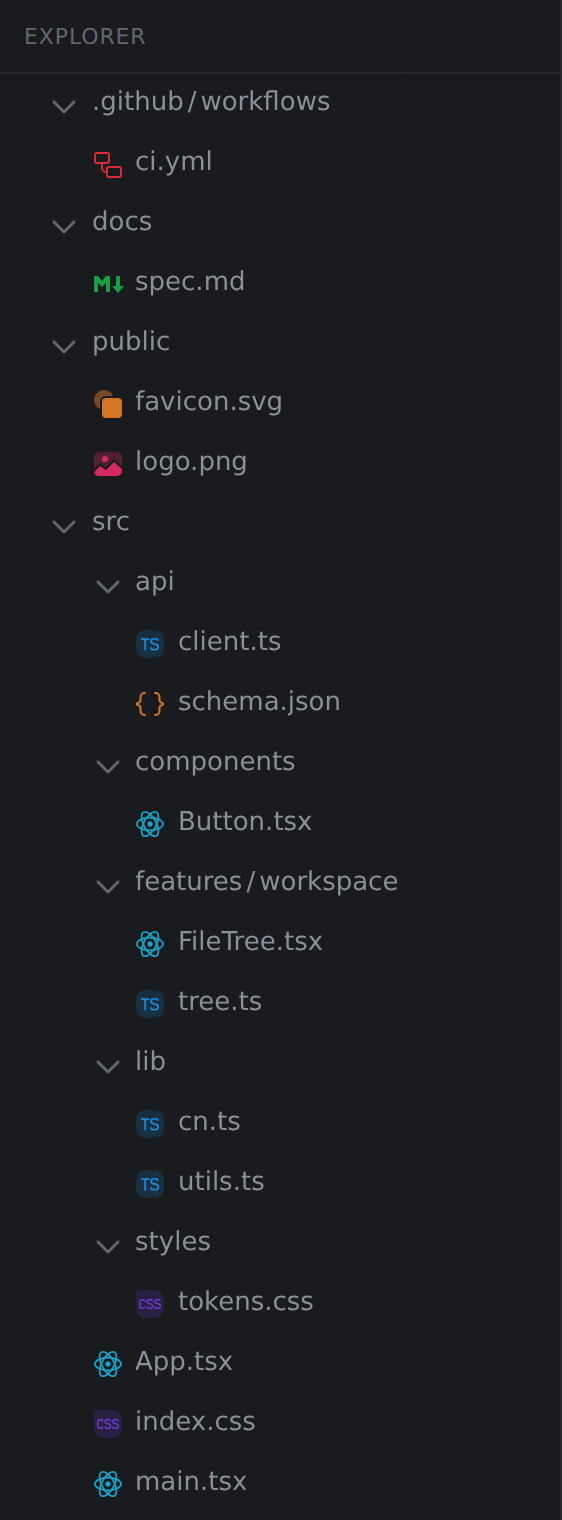
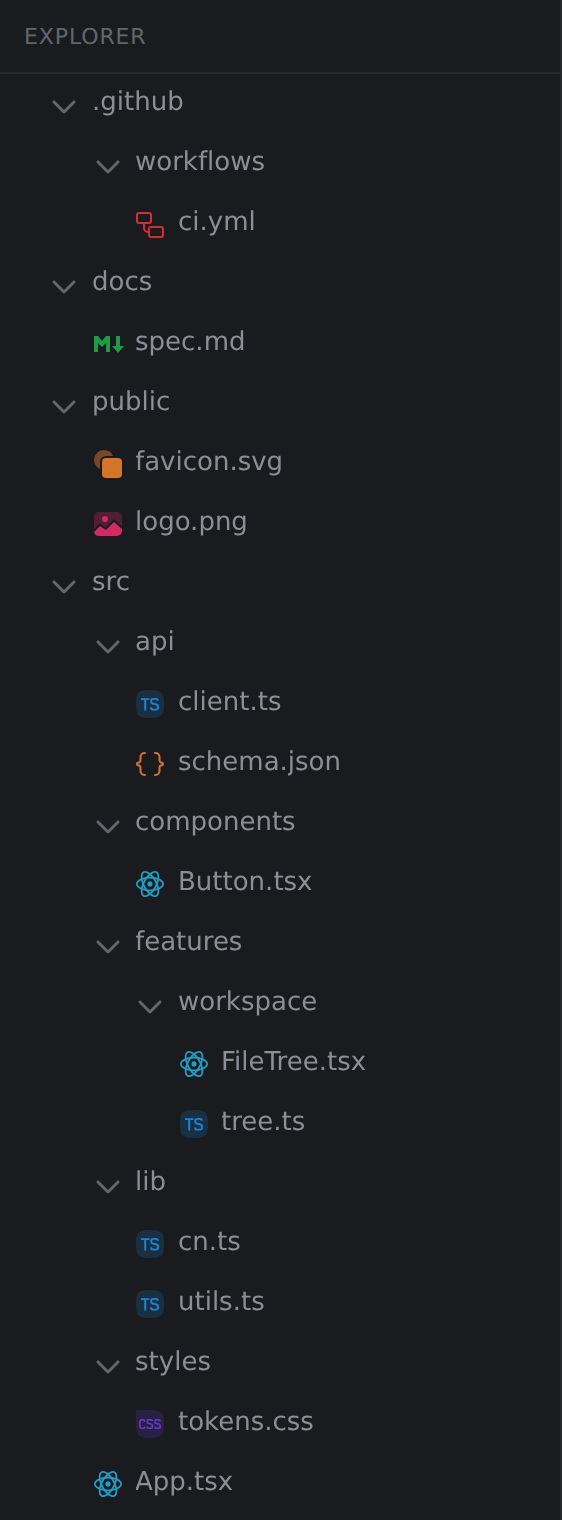
spike(workspace): prepared input, rename guards, flatten parity + verify rename
Apply the docs' do-it-properly improvements to the trees spike:
- prepared input via prepareFileTreeInput + resetPaths({ preparedInput })
- flattenEmptyDirectories: false for one-row-per-directory parity (store-level
  option is the effective knob; the prepareFileTreeInput option alone does not
  disable projection-time flattening)
- canRename guard for root manifests/lockfiles + onError surfacing
- density: 'default'

Verify rename end-to-end headlessly (spike-preview/rename-test.mjs): startRenaming
opens the inline input, Enter fires onRename with the correct source/destination
paths. Captured tree-rename.png. Findings recorded in docs/pierre-trees-spike.md.

diff --git a/marudesk/src/features/workspace/FileTreePierreSpike.tsx b/marudesk/src/features/workspace/FileTreePierreSpike.tsx
@@ -1,9 +1,11 @@
 import { useEffect, useMemo, useRef, type CSSProperties, type ReactNode } from 'react';
 import { FileTree, useFileTree } from '@pierre/trees/react';
+import { prepareFileTreeInput } from '@pierre/trees';
 import type {
   ContextMenuItem as FileTreeContextMenuItem,
   ContextMenuOpenContext as FileTreeContextMenuOpenContext,
   FileTreeRenameEvent,
+  FileTreeRenamingItem,
 } from '@pierre/trees';
 import {
   ClipboardPaste,
@@ -98,6 +100,17 @@ function basename(path: string): string {
   return i >= 0 ? path.slice(i + 1) : path;
 }
 
+// Root manifests / lockfiles whose rename would break tooling. The docs
+// recommend a `canRename` guard for exactly this; the in-house tree had none,
+// so this is a small, deliberate hardening.
+const RENAME_PROTECTED = new Set([
+  'package.json',
+  'package-lock.json',
+  'pnpm-lock.yaml',
+  'yarn.lock',
+  '.git',
+]);
+
 type MenuRow = {
   label: string;
   icon: ReactNode;
@@ -119,6 +132,17 @@ export function FileTreePierreSpike({ files, onOpenFile }: Props) {
   // segments, so any path present here is always openable.
   const paths = useMemo(() => files.map((f) => f.path), [files]);
   const fileSet = useMemo(() => new Set(paths), [paths]);
+
+  // The docs treat raw `paths` as the demo/small-tree path and recommend
+  // prepared input (ideally produced off the UI boundary) for real trees. We
+  // shape it here in the renderer for now; the production move is to emit
+  // presorted prepared input from the main process that already builds the
+  // file list. `flattenEmptyDirectories: false` keeps one row per directory,
+  // matching the in-house tree (flip to true for VSCode-style compact folders).
+  const preparedInput = useMemo(
+    () => prepareFileTreeInput(paths, { flattenEmptyDirectories: false }),
+    [paths],
+  );
 
   // Latest values for listeners captured once at construction, so selection ->
   // open never goes stale across re-renders.
@@ -143,10 +167,20 @@ export function FileTreePierreSpike({ files, onOpenFile }: Props) {
   };
 
   const { model } = useFileTree({
-    paths,
+    preparedInput,
     initialExpansion: 'closed',
     search: true,
-    renaming: { onRename: (e) => onRenameRef.current(e) },
+    density: 'default',
+    // One row per directory (parity with the in-house tree). The store-level
+    // option is the effective knob — the prepareFileTreeInput option alone does
+    // not disable the projection-time flattening. Flip both to true for compact
+    // VSCode-style single-child folder chains.
+    flattenEmptyDirectories: false,
+    renaming: {
+      canRename: (item: FileTreeRenamingItem) => !RENAME_PROTECTED.has(basename(item.path)),
+      onRename: (e) => onRenameRef.current(e),
+      onError: (message) => window.alert(message),
+    },
     icons: { set: 'complete', colored: true },
     onSelectionChange: (selected) => {
       const { fileSet: fs, onOpenFile: open } = latest.current;
@@ -162,8 +196,8 @@ export function FileTreePierreSpike({ files, onOpenFile }: Props) {
       firstRun.current = false;
       return;
     }
-    model.resetPaths(paths);
-  }, [paths, model]);
+    model.resetPaths(paths, { preparedInput });
+  }, [preparedInput, paths, model]);
 
   const beginCreate = (parentDir: string, kind: 'file' | 'dir') => {
     const base = kind === 'dir' ? 'new-folder' : 'new-file';

diff --git a/marudesk/spike-preview/main.ts b/marudesk/spike-preview/main.ts
@@ -1,5 +1,6 @@
 import '../src/styles/tokens.css';
-import { FileTree } from '@pierre/trees';
+import { FileTree, prepareFileTreeInput } from '@pierre/trees';
+import type { FileTreeRenameEvent } from '@pierre/trees';
 
 // Same token -> --trees-*-override mapping the spike component uses, so this
 // preview reflects the real theming. Per the docs these override variables are
@@ -74,12 +75,30 @@ treeMount.style.cssText = 'flex:1;min-height:0;display:flex;';
 sidebar.append(header, treeMount);
 app.append(sidebar);
 
+// Record rename events so the Playwright check can assert the rename pipeline
+// actually fires. Mirrors the spike component's prepared-input + renaming setup.
+declare global {
+  interface Window {
+    __renameEvents: FileTreeRenameEvent[];
+    __startRename: (path: string) => boolean;
+  }
+}
+window.__renameEvents = [];
+
 const tree = new FileTree({
-  paths,
+  preparedInput: prepareFileTreeInput(paths, { flattenEmptyDirectories: false }),
   initialExpansion: 'open',
+  flattenEmptyDirectories: false,
+  density: 'default',
   icons: { set: 'complete', colored: true },
+  renaming: {
+    onRename: (e) => {
+      window.__renameEvents.push(e);
+    },
+  },
 });
 tree.render({ containerWrapper: treeMount });
+window.__startRename = (path: string) => tree.startRenaming(path);
 
 // Apply the token theme on the host element (the docs' first-class styling
 // surface) rather than via unsafeCSS.

diff --git a/marudesk/docs/pierre-trees-spike.md b/marudesk/docs/pierre-trees-spike.md
@@ -113,34 +113,50 @@ Corrections made after the review:
   are an inline `style` object on `<FileTree>` (and `host.style.setProperty` in
   the preview). Render output is identical.
 
-Remaining doc-driven notes (not bugs, but "do it properly at scale"):
+Doc-driven improvements applied after the review:
 
-- **Input shape.** The spike feeds raw `paths` + `resetPaths` on every reindex.
-  The docs call raw `paths` the path "for demos, tests, and very small static
-  trees," and recommend `prepareFileTreeInput(...)` /
-  `preparePresortedFileTreeInput(...)` produced off the UI boundary for real
-  trees. marudesk's main process already builds and sorts the file list, so it
-  is the natural place to emit **presorted prepared input** — the highest-perf
-  path. This is the right production follow-up.
-- **`flattenEmptyDirectories`.** The compact `a/b` rows in the screenshot are the
-  library flattening single-child chains (on by default). The in-house tree does
-  not compact; set `flattenEmptyDirectories: false` if we want parity.
-- **`canRename` / `onError`.** The docs recommend `canRename` to protect files
-  like `package.json` and `onError` to surface invalid renames. The spike wires
-  only `onRename`; add the guards before adoption.
-- **Density.** Prefer the `density` keyword (`'compact' | 'default' | 'relaxed'`)
-  or `itemHeight` over hand-setting font size, to match the in-house 28px rows.
+- **Prepared input.** Switched from raw `paths` to
+  `prepareFileTreeInput(paths, { flattenEmptyDirectories: false })`, with
+  `resetPaths(paths, { preparedInput })` on reindex. The docs call raw `paths`
+  the demo/small-tree path and recommend prepared input for real trees. We shape
+  it in the renderer for now; the production follow-up is to emit **presorted
+  prepared input** (`preparePresortedFileTreeInput`) from the main process, which
+  already builds and sorts the file list — the highest-perf path.
+- **`flattenEmptyDirectories` parity (with a gotcha).** Set to `false` so each
+  directory is its own row, matching the in-house tree. **The effective knob is
+  the store-level option on `FileTreeOptions` — passing it only to
+  `prepareFileTreeInput` does not disable the projection-time flattening** (the
+  `.github/workflows` row stayed compacted until the store-level option was set;
+  verified by screenshot). Flip both to `true` for VSCode-style compact folders.
+- **`canRename` / `onError`.** Wired `canRename` to protect root manifests and
+  lockfiles (`package.json`, `package-lock.json`, `pnpm-lock.yaml`, `yarn.lock`,
+  `.git`) and `onError` to surface invalid renames — per the docs' guidance.
+- **Density.** Use the `density: 'default'` keyword instead of hand-tuning row
+  height.
+
+Remaining note:
+
 - **No "open/activate" event.** Confirmed: the model exposes selection and focus,
   not a file-open event. Opening on `onSelectionChange` is a marudesk product
   decision (single-click-opens), with the known caveat that re-selecting an
   already-selected path won't re-fire.
 
+## Rename verified end-to-end
+
+`spike-preview/rename-test.mjs` drives the real library headlessly:
+`startRenaming('src/lib/cn.ts')` opens the inline input (stem auto-selected,
+matching the in-house tree), typing `classnames.ts` + Enter fires `onRename`
+exactly once with `{ sourcePath: 'src/lib/cn.ts', destinationPath:
+'src/lib/classnames.ts', isFolder: false }`. In the component that event routes
+to `commitRename(sourcePath, basename(destinationPath))` →
+`workspace:rename`. Captured in `spike-preview/tree-rename.png`.
+
 ## Recommendation
 
 The bridge is real and the wins (virtualization, git status, drag/drop, Pierre's
-polish) are concrete, and the implementation now follows the documented styling
-surface. Before committing to a full swap, the next step is a manual GUI pass
-with the flag on to confirm shadow-DOM rendering, the inline rename input, and
-context-menu placement feel right — then decide between full adoption (resolving
-the gaps above, and moving to presorted prepared input) and keeping the in-house
-tree with selective visual borrowing.
+polish) are concrete; the implementation now follows the documented styling and
+input surfaces, and rename is verified. Before a full swap, the remaining step is
+a manual GUI pass in the Electron app (the spike here is an isolated render) to
+confirm context-menu placement and feel — then decide between full adoption
+(moving prep to the main process) and keeping the in-house tree with selective
+visual borrowing.
